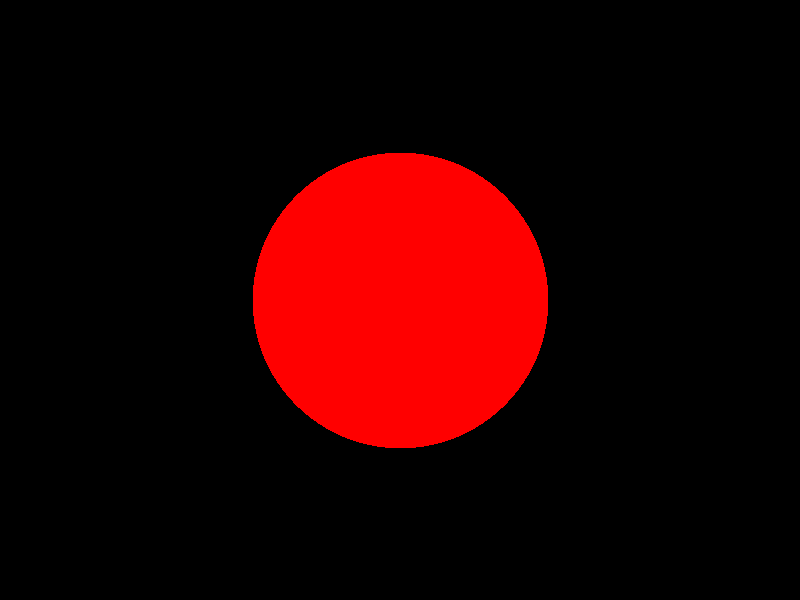
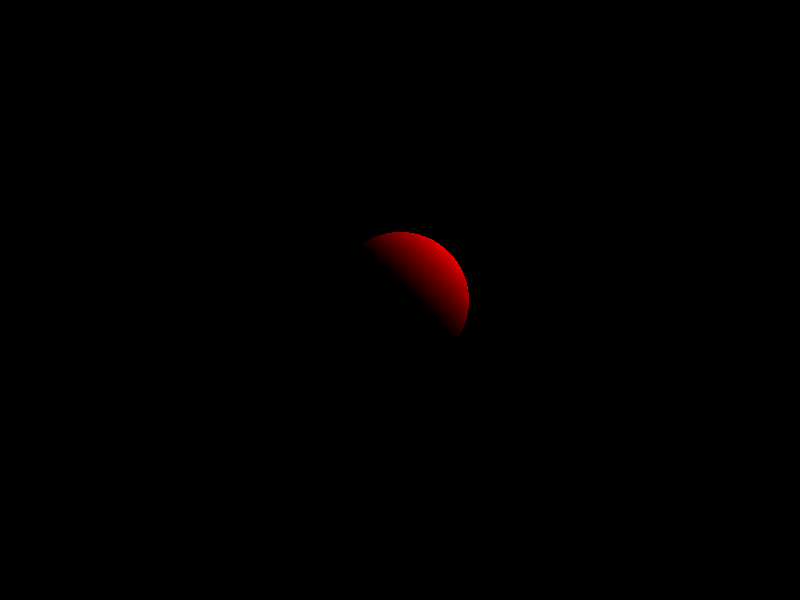
added lights

Changed region(s): [[0.3125, 0.24, 0.6875, 0.75]]

diff --git a/src/primitives.cpp b/src/primitives.cpp
@@ -13,6 +13,10 @@ void Primitive::move(vec3f delta){
     center += delta;
 }
 
+const vec3f Primitive::getCenter() const{
+    return center;
+}
+
 
 Plane::Plane(point center, vec3f normal): Primitive(center){
     this->normal = normal;
@@ -22,13 +26,13 @@ Plane::~Plane(){
 
 }
 
-const bool Plane::intersectRay(Ray r){
+const vec3f Plane::intersectRay(Ray r){
     if(dot(r.getDir(), normal)){
-        //float t = dot(center - r.getPoint(0), normal)/dot(r.getDir(), normal);
-        return true;//r.getPoint(t);
+        float t = dot(center - r.getPoint(0), normal)/dot(r.getDir(), normal);
+        return r.getPoint(t);
     }
     else
-        return false;//{0.0f, 0.0f, 0.0f};
+        return {0.0f, 0.0f, 0.0f};
 }
 
 
@@ -40,18 +44,32 @@ Sphere::~Sphere(){
 
 }
 
-const bool Sphere::intersectRay(Ray r){
-    float a = r.getDir().length2();
+const vec3f Sphere::intersectRay(Ray r){
+    //float a = r.getDir().length2(); =1
     float b = 2*dot(r.getPoint(0) - center, r.getDir());
     float c = (r.getPoint(0) - center).length2() - radius*radius;
 
-    if(b*b-4*a*c >= 0)
-        return true;
+    float delta = b*b-4*c;
+    
+
+    if(delta >= 0){
+        float t1 = (-b + sqrt(delta))/2;
+        float t2 = (-b - sqrt(delta))/2;
+        if(t1 > t2){
+            return r.getPoint(t2);
+        }
+        else{
+            return r.getPoint(t1);
+        }
+    }
     else
-        return false;
+        return vec3f(0, 0, 0);
 
-    /* float t1 = -b + sqrt(b*b-4*a*c)/(2*a);
-    float t2 = -b - sqrt(b*b-4*a*c)/(2*a);
 
-    return fabs(t1) < fabs(t2) ? r.getPoint(t1) : r.getPoint(t2); */
+}
+
+const vec3f Sphere::getNormal(point surfacePoint) const{
+    vec3f normal = (surfacePoint - center);
+    normal.normalize();
+    return normal;
 }

diff --git a/src/main.cpp b/src/main.cpp
@@ -3,6 +3,7 @@
 
 #include "primitives.h"
 #include "camera.h"
+#include "light.h"
 
 #define WIDTH   800
 #define HEIGHT  600
@@ -16,15 +17,24 @@ int main(){
         imagedata[i] = 0;
 
 
-    Sphere ball({0.0f, 0.0f, 20.0f}, 2);
+    Sphere ball({0.0f, 0.0f, 10.0f}, 2);
 
-    Camera mainCamera({0.0f, 0.0f, 0.0f}, {0.0f, 0.0f, 1.0f}, {0.0f, 1.0f, 0.0f}, WIDTH, HEIGHT, 50);
+    Camera mainCamera({0.0f, 0.0f, 0.0f}, {0.0f, 0.0f, 1.0f}, {0.0f, 1.0f, 0.0f}, WIDTH, HEIGHT, 50*3.141592/180);
+
+    LightSource mainLight({10.0f, 10.0f, 10.0f}, {255.0f, 255.0f, 255.0f});
 
     for(int i = 0; i < HEIGHT; i++){
         for(int j = 0; j < WIDTH; j++){
             
-            if(ball.intersectRay(mainCamera.getRay(j, i))){
-                imagedata[3*(j+WIDTH*i)] = 255;
+            point intersection = ball.intersectRay(mainCamera.getRay(j, i));
+            if(intersection != vec3f(0.0f, 0.0f, 0.0f)){
+                Ray shadowRay(intersection, mainLight.getCenter() - intersection);
+
+                float costeta = dot(shadowRay.getDir(), ball.getNormal(intersection));
+                
+                imagedata[3*(j+WIDTH*i)] = costeta > 0 ? (unsigned char)(255.0f*costeta) : 0;
+                //printf("(%f, %f, %f)\n", (intersection).x, (intersection).y, (intersection).z);
+                //printf("(%f, %f, %f) -> %f\n", shadowRay.getDir().x, shadowRay.getDir().y, shadowRay.getDir().z, costeta);
             }
         }
     }

diff --git a/include/primitives.h b/include/primitives.h
@@ -12,7 +12,9 @@ class Primitive{
         
         void move(vec3f delta);
 
-        virtual const bool intersectRay(Ray r) = 0;
+        virtual const vec3f intersectRay(Ray r) = 0;
+
+        const vec3f getCenter() const;
 
 };
 
@@ -25,7 +27,7 @@ class Plane: public Primitive{
         Plane(point center = {0.0f, 0.0f, 0.0f}, vec3f normal = {0.0f, 0.0f, 0.0f});
         virtual ~Plane();
 
-        virtual const bool intersectRay(Ray r) override;
+        virtual const vec3f intersectRay(Ray r) override;
 
 };
 
@@ -38,6 +40,8 @@ class Sphere: public Primitive{
         Sphere(point center = {0.0f, 0.0f, 0.0f}, float radius = 0.0f);
         virtual ~Sphere();
 
-        virtual const bool intersectRay(Ray r) override;
+        virtual const vec3f intersectRay(Ray r) override;
+
+        const vec3f getNormal(point surfacePoint) const;
 
 };

diff --git a/src/camera.cpp b/src/camera.cpp
@@ -1,4 +1,5 @@
 #include "camera.h"
+#include <stdio.h>
 
 Camera::Camera(vec3f position, vec3f forward, vec3f upHint, int targetWidth, int targetHeight, float fov):
 position(position),
@@ -10,13 +11,14 @@ forward(forward)
 
     forward.normalize();
 
-    horizontalDisp = cross(forward, upHint);
+    horizontalDisp = cross(upHint, forward);
     horizontalDisp.normalize();
 
-    verticalDisp = cross(horizontalDisp, forward);
+    verticalDisp = cross(forward, horizontalDisp);
 
     horizontalDisp *= 2*tanf(fov)/(targetWidth);
     verticalDisp *= 2*tanf(fov)/(targetWidth);
+
     
 }
 

diff --git a/include/vec3f.h b/include/vec3f.h
@@ -27,6 +27,14 @@ class vec3f{
 
 };
 
+inline bool operator==(const vec3f& first, const vec3f& second) {
+    return first.x == second.x && first.y == second.y && first.z == second.z;
+}
+
+inline bool operator!=(const vec3f& first, const vec3f& second) {
+    return first.x != second.x || first.y != second.y || first.z != second.z; 
+}
+
 const vec3f operator+(const vec3f& first, const vec3f& second);
 
 const vec3f operator-(const vec3f& first, const vec3f& second);

diff --git a/include/light.h b/include/light.h
@@ -1,0 +1,18 @@
+#pragma once
+
+#include "primitives.h"
+
+class LightSource: public Primitive{
+
+    private:
+        color sourceColor;
+
+    public:
+        LightSource(vec3f center = {0.0f, 0.0f, 0.0f}, color sourceColor = {0.0f, 0.0f, 0.0f});
+        ~LightSource();
+
+        const vec3f intersectRay(Ray r) override;
+
+        const color getColor() const;
+
+};

diff --git a/src/light.cpp b/src/light.cpp
@@ -1,0 +1,17 @@
+#include "light.h"
+
+LightSource::LightSource(vec3f center, color sourceColor): Primitive(center), sourceColor(sourceColor){
+    
+}
+
+LightSource::~LightSource(){
+
+}
+
+const vec3f LightSource::intersectRay(Ray r){
+    return {0.0f, 0.0f, 0.0f};
+}
+
+const color LightSource::getColor() const{
+    return sourceColor;
+}

diff --git a/include/material.h b/include/material.h
@@ -1,0 +1,14 @@
+#pragma once
+
+#include "vec3f.h"
+
+class Material{
+
+    color baseColor;
+
+    public:
+        Material(color baseColor);
+        ~Material();
+
+        const color getColor();
+};

diff --git a/src/ray.cpp b/src/ray.cpp
@@ -3,6 +3,7 @@
 Ray::Ray(point p, vec3f dir){
     this->p = p;
     this->dir = dir;
+    this->dir.normalize();
 }
 
 Ray::~Ray(){
